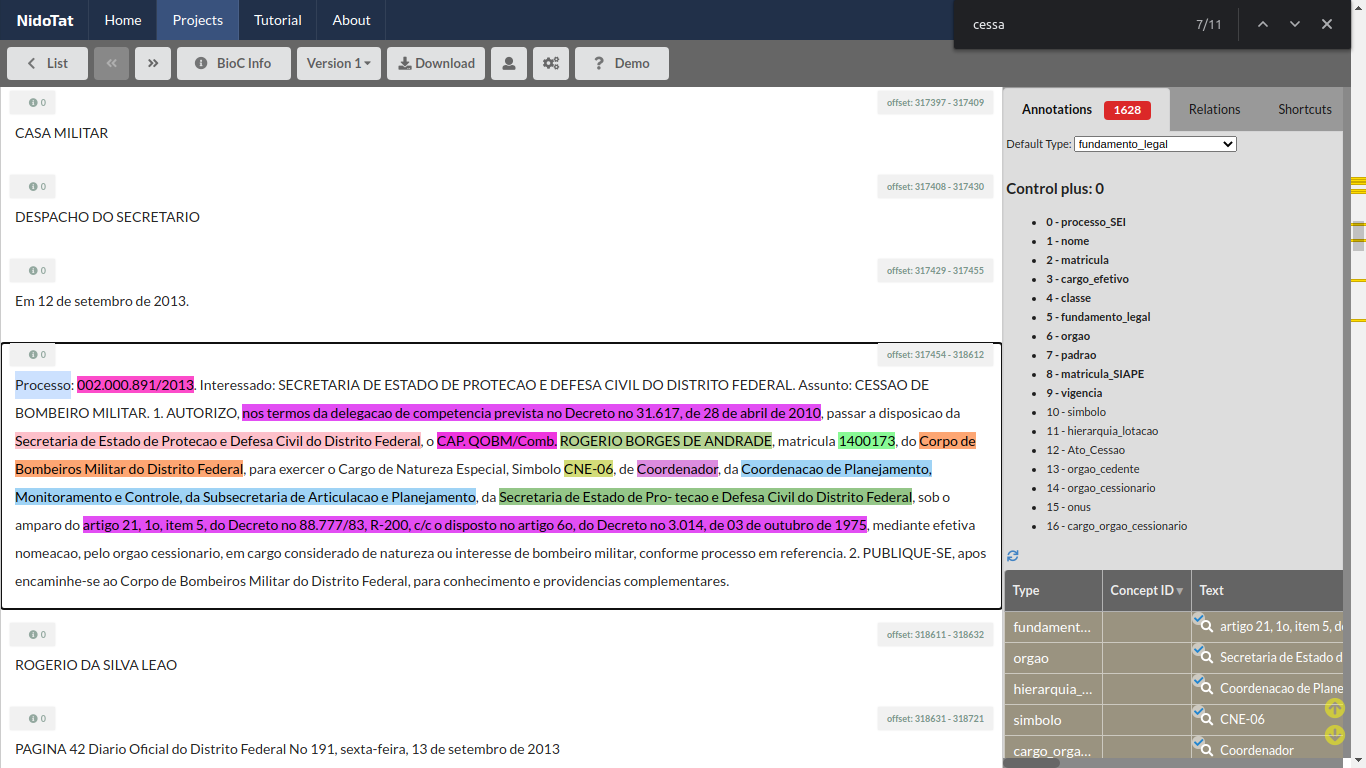
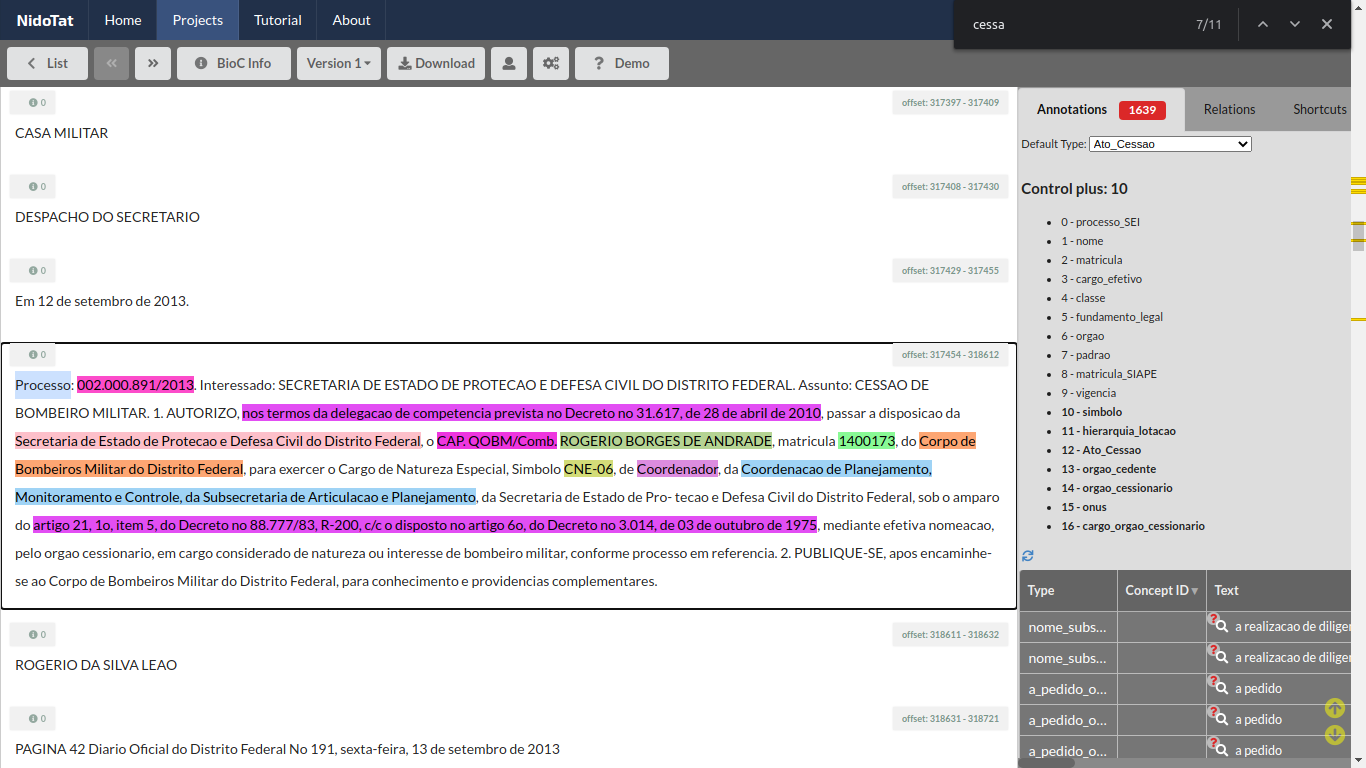
update: ajuste de detalhes nos prints de cessão e remoção de arquivos de prints antigos

Changed region(s): [[0.0, 0.125, 1.0, 1.0]]

diff --git a/ato_cessoes/README.md b/ato_cessoes/README.md
@@ -1,4 +1,4 @@
-# Ato de Cessões
+# Ato de Cessão
 
 [//]: # (Paleta de cores usada nos destaques dos exemplos obtida em http://tsitsul.in/blog/coloropt/)
 
@@ -37,18 +37,18 @@ ID | Rótulo | Entidade (descrição)  | Padrão
 #### Exemplos de atos de cessão:
 Seguem exemplos de atos de cessão. O texto do ato em si estará sublinhado e suas respectivas entidades enumeradas conforme índice da tabela acima. Note que nem todos os exemplos contemplam todas as entidades. **A regra aqui é simples: marque todas as entidades que estiverem no ato.**
 
-1. <ins><span style="color:#B24502"> *Processo: 00370-00002649/2018-11 (10)*</span>. Interessado: CHARLISSON NOGUEIRA SILVA. Assunto: CESSÃO DE SERVIDOR.
+> <ins><span style="color:#B24502"> *Processo: 00370-00002649/2018-11 (10)*</span>. Interessado: CHARLISSON NOGUEIRA SILVA. Assunto: CESSÃO DE SERVIDOR.
 AUTORIZO, <span style="color:#5954D6"> *com base nos arts. 19 e 20, do Decreto nº 39.009, de 26/4/2018 e na forma do art. 152, inciso I, alínea "a" com o art. 154, parágrafo único, inciso II, da Lei Complementar nº 840, de 23/12/2011 (9)*</span>, a cessão do servidor <span style="color:#EBAC23">*CHARLISSON NOGUEIRA SILVA (1)*</span>, <span style="color:#B80058"> *matrícula nº 127.100-8 (2)*</span>, <span style="color:#008CF9"> *Analista em Políticas Públicas e Gestão Governamental (3)*</span>, da <span style="color:#00C6F8">*Secretaria de Estado de Planejamento, Orçamento e Gestão do Distrito Federal - SEPLAG/DF (6)*</span>, para exercer o Cargo de Natureza Especial, <span style="color:#00BBAD">*símbolo CNE-07 (14)*</span>, de <span style="color:#979797">*Diretor da Diretoria de Planejamento, Orçamento e Finanças (13)*</span>, da <span style="color:#">Secretaria de Estado de Economia, Desenvolvimento, Inovação, Ciência e Tecnologia do Distrito Federal</span>, <span style="color:#00A76C">*com ônus para o órgão de origem (8)*</span>. Em conformidade com o art. 153, incisos I e II, parágrafo único, da Lei Complementar n 840, de 23/12/2011, <span style="color:#878500">*a cessão termina com a exoneração do cargo para a qual o servidor foi cedido ou com a revogação pela autoridade cedente (11)*</span>.</ins>
 Publique-se e encaminhe-se à Secretaria de Estado de Planejamento, Orçamento e Gestão do Distrito Federal - SEPLAG/DF, para as providências pertinentes.
 _**Ref**: DODF 10/07/2018, Edição íntegra, Página 38._
 
-2.<ins> <span style="color:#B24502"> *PROCESSO Nº: 010.000.059/2006 (10)*</span>; INTERESSADO: <span style="color:#D163E6">*SECRETARIA DE ESTADO DE SEGURANÇA PÚBLICA E DEFESA SOCIAL DO DISTRITO FEDERAL (7)*</span>; ASSUNTO: CESSÃO DE POLICIAIS MILITARES.
+> <ins> <span style="color:#B24502"> *PROCESSO Nº: 010.000.059/2006 (10)*</span>; INTERESSADO: <span style="color:#D163E6">*SECRETARIA DE ESTADO DE SEGURANÇA PÚBLICA E DEFESA SOCIAL DO DISTRITO FEDERAL (7)*</span>; ASSUNTO: CESSÃO DE POLICIAIS MILITARES.
 1\. AUTORIZO passar à disposição da Secretaria de Estado de Segurança Pública e Defesa Social do Distrito Federal – SSPDS/DF, o <span style="color:#008CF9"> *1º Sargento QPPMC (3)*</span> <span style="color:#EBAC23">*PATRÍCIO JOSÉ DE MEDEIROS (1)*</span>, <span style="color:#B80058"> *Matrícula 07.983-9 (2)*</span> e o <span style="color:#008CF9"> *2º Sargento QPPMC (3)*</span> <span style="color:#EBAC23">*DELTON DE OLIVEIRA PINHEIRO (1)*</span>, <span style="color:#B80058"> *Matrícula 07.907-3 (2)*</span>, para exercerem o Cargo em Comissão, <span style="color:#00BBAD">*Símbolo DFA-03 (14)*</span>, de <span style="color:#979797">*Despachante da Central Integrada de Atendimento e Despacho (13)*</span> do <span style="color:#FF9287">*Centro Integrado de Operações de Segurança Pública e Defesa Social, daquela Secretaria (15)*</span>, bem como os <span style="color:#008CF9"> *Soldados QPPMC (3)*</span> <span style="color:#EBAC23">*JOÃO PAULO SANTANA SOBRINHO (1)*</span>, <span style="color:#B80058"> *Matrícula 14.185-2 (2)*</span> e <span style="color:#EBAC23">*FRANCISCO NASCIMENTO LIMA (1)*</span>, <span style="color:#B80058"> *Matrícula 22.328-X (2)*</span>, para exercerem o Cargo em Comissão, <span style="color:#00BBAD">*Símbolo DFA-01 (14)*</span>, de <span style="color:#979797">*Atendente da Central Integrada de Atendimento e Despacho (13)*</span> do <span style="color:#FF9287">*Centro Integrado de Operações de Segurança Pública e Defesa Social, daquela Secretaria (15)*</span>, <span style="color:#5954D6"> *nos termos do artigo 21, § 1º, item 3, do Decreto nº 4.531, de 19 de dezembro de 2002, c/c o disposto no artigo 6º, item III, do Decreto 3.014, de 03 de setembro de 1975 (9)*</span>, em função de natureza ou interesse policial militar, mediante efetiva nomeação, pelo órgão cessionário, nos cargos em destaque, <span style="color:#00A76C">*sem ônus para a Polícia Militar do Distrito Federal, a exceção de suas remunerações normais (8)*</span>. </ins>
 2\. PUBLIQUE-SE e encaminhe-se à Polícia Militar do Distrito Federal, via Casa Militar, para conhecimento e providências complementares.
 _**Ref**: DODF 03/07/2006, Seção 2., Página 11._
 **Importante:** Note que nesse caso existem quatro servidores contemplados no mesmo ato. É quase como se fossem quatro 'subatos', que compartilham alguns atributos. Se você se deparar com uma situação assim, sem pânico: apenas marque as entidades e o texto do ato inteiro normalmente, conforme ilustrado.
 
-3. Processo 002.000.891/2013. Interessado: SECRETARIA DE ESTADO DE PROTECAO E DEFESA CIVIL DO DISTRITO FEDERAL. Assunto: CESSAO DE BOMBEIRO MILITAR. 1\. AUTORIZO, nos termos da delegacao de competencia prevista no Decreto no 31.617, de 28 de abril de 2010, passar a disposicao da Secretaria de Estado de Protecao e Defesa Civil do Distrito Federal, o CAP.QOBM/Comb. ROGERIO BORGES DE ANDRADE, matricula 1400173, do Corpo de Bombeiros Militar do Distrito Federal, para exercer o Cargo de Natureza Especial, Simbolo CNE-06, de Coordenador, da Coordenacao de Planejamento, Monitoramento e Controle, da Subsecretaria de Articulacao e Planejamento, da Secretaria de Estado de Protecao e Defesa Civil do Distrito Federal, sob o amparo do artigo 21, 1o, item 5, do Decreto no 88.777/83, R-200, c/c o disposto no artigo 6o, do Decreto no 3.014, de 03 de outubro de 1975, mediante efetiva nomeacao, pelo orgao cessionario, em cargo considerado de natureza ou interesse de bombeiro militar, conforme processo em referencia. 2\. PUBLIQUE-SE, apos encaminhe-se ao Corpo de Bombeiros Militar do Distrito Federal, para conhecimento e providencias complementares.
+> <ins>Processo ***002.000.891/2013 (10)***. Interessado: SECRETARIA DE ESTADO DE PROTECAO E DEFESA CIVIL DO DISTRITO FEDERAL. Assunto: CESSAO DE BOMBEIRO MILITAR. 1\. AUTORIZO, ***nos termos da delegacao de competencia prevista no Decreto no 31.617, de 28 de abril de 2010 (9)***, passar a disposicao da ***Secretaria de Estado de Protecao e Defesa Civil do Distrito Federal (7)***, o ***CAP.QOBM/Comb. (3)*** ***ROGERIO BORGES DE ANDRADE (1)***, matricula ***1400173 (2)***, do ***Corpo de Bombeiros Militar do Distrito Federal (6)***, para exercer o Cargo de Natureza Especial, Simbolo ***CNE-06 (14)***, de ***Coordenador (13)***, da ***Coordenacao de Planejamento, Monitoramento e Controle, da Subsecretaria de Articulacao e Planejamento (15)***, da ***Secretaria de Estado de Protecao e Defesa Civil do Distrito Federal ()***, sob o amparo do artigo 21, 1o, item 5, do Decreto no 88.777/83, R-200, c/c o disposto no artigo 6o, do Decreto no 3.014, de 03 de outubro de 1975, mediante efetiva nomeacao, pelo orgao cessionario, em cargo considerado de natureza ou interesse de bombeiro militar, conforme processo em referencia.</ins> 2\. PUBLIQUE-SE, apos encaminhe-se ao Corpo de Bombeiros Militar do Distrito Federal, para conhecimento e providencias complementares.
 _**Ref**: DODF 13/09/2013, Seção 2., Página 41._
 
 ### Sugestão de processo de anotação
@@ -74,5 +74,11 @@ O print abaixo mostra o resultado final de anotação a nível de entidades:
 
 5. Selecione o texto do ato de maneira que todas as entidades sejam incluídas e adicione a relação. O resultado final será o seguinte:
 ![resultado relação](8cessao.png "relação anotada")
+
+### Observações Gerais sobre os Atos de Cessão:
+
+* Nem sempre o ato terá todos os atributos, mas anote todos os que você encontrar.  
+* Não anote vírgulas e pontos, a não ser que eles estejam dentro do atributo, como acontece em Hierarquia de Lotação.  
+* Tenha muito cuidado para não apagar todas as anotações de um documento, mesmo tendo função de anotador.
 
 Pronto! Agora é só por uma boa playlist e seguir com o bom trabalho.
